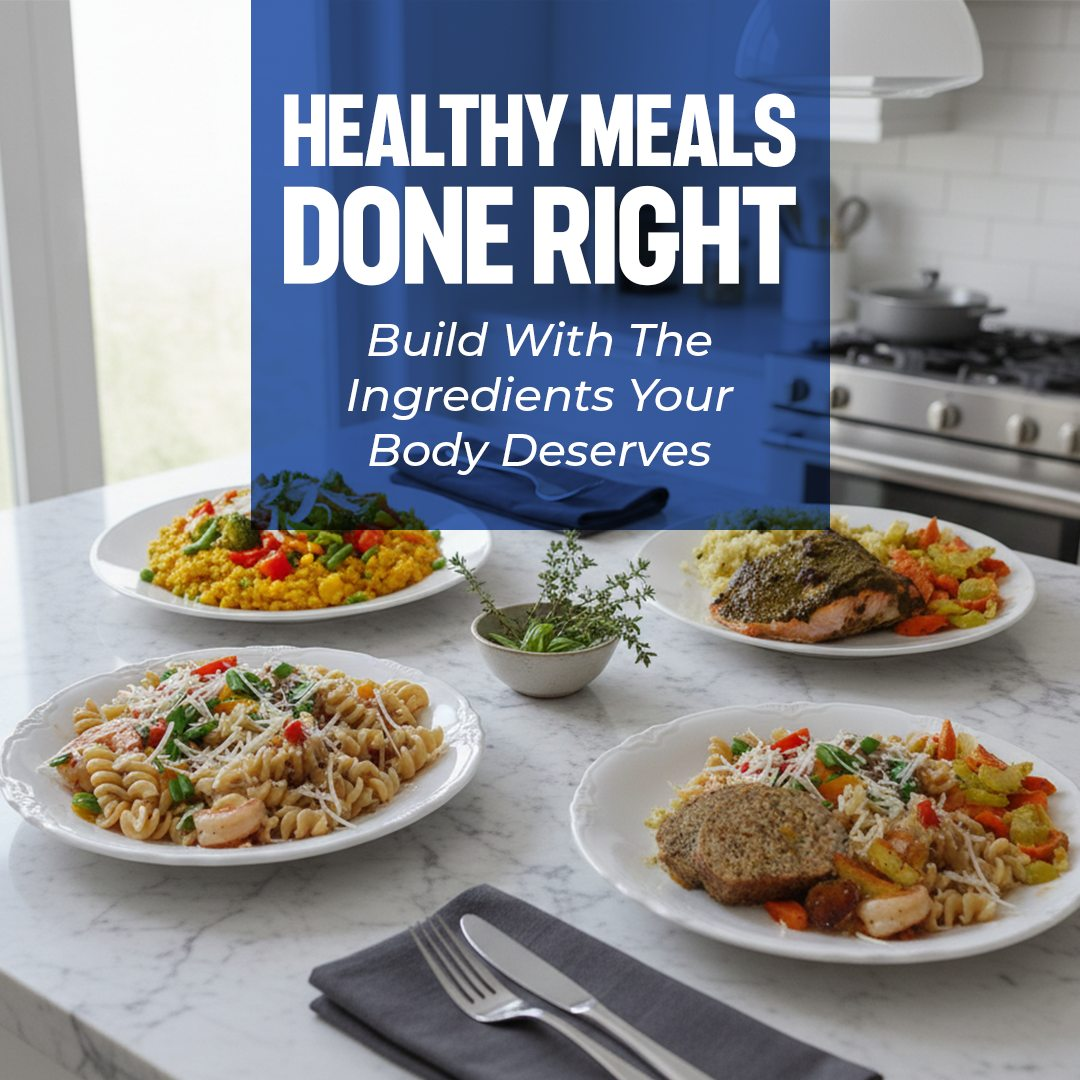
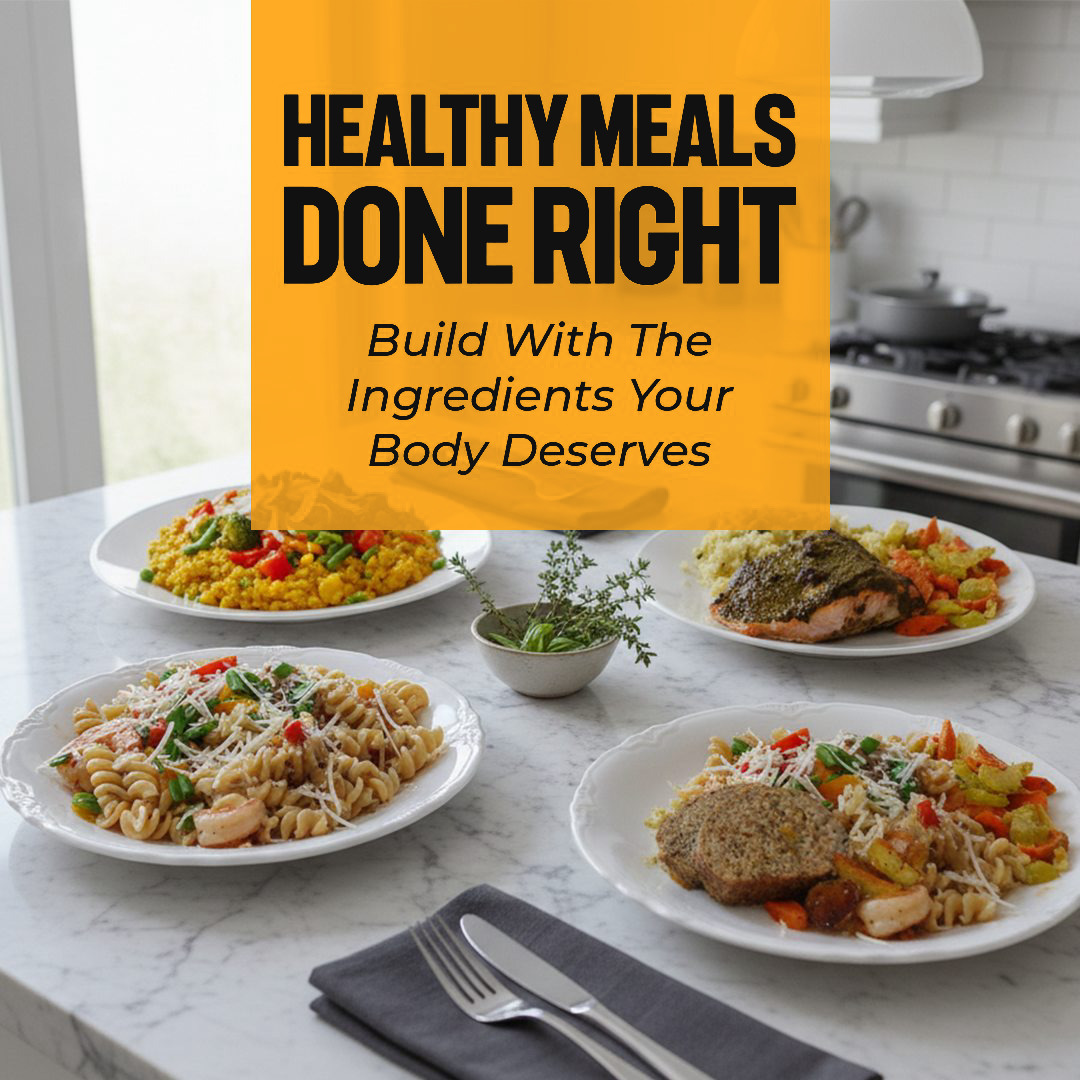
a

Changed region(s): [[0.2139, 0.0, 0.7944, 0.4889]]

diff --git a/assets/section-cm.css b/assets/section-cm.css
@@ -1049,7 +1049,7 @@ cm-arc-carousel {
   left: 14%;
   height: 7%;
   border-radius: 50%;
-  background: radial-gradient(ellipse, rgba(0, 0, 0, 0.55), transparent 70%);
+  background: radial-gradient(ellipse, rgba(0, 0, 0, 0.3), transparent 70%);
   pointer-events: none;
 }
 
@@ -1065,14 +1065,14 @@ cm-arc-carousel {
   width: 100%;
   height: 100%;
   object-fit: contain;
-  filter: drop-shadow(0 24px 22px rgba(0, 0, 0, 0.55));
+  filter: drop-shadow(0 24px 22px rgba(0, 0, 0, 0.3));
   pointer-events: none;
   -webkit-user-drag: none;
   transition: filter 0.6s ease;
 }
 
 .cm-arc__item.is-active .cm-arc__img {
-  filter: drop-shadow(0 30px 30px rgba(0, 0, 0, 0.6))
+  filter: drop-shadow(0 30px 30px rgba(0, 0, 0, 0.35))
     drop-shadow(0 0 36px color-mix(in srgb, var(--cm-arc-accent) 50%, transparent));
 }
 
@@ -1080,13 +1080,13 @@ cm-arc-carousel {
   object-fit: cover;
   border-radius: 1.6rem;
   filter: none;
-  box-shadow: 0 24px 40px rgba(0, 0, 0, 0.55);
+  box-shadow: 0 24px 40px rgba(0, 0, 0, 0.22);
   transition: box-shadow 0.6s ease;
 }
 
 .cm-arc--card .cm-arc__item.is-active .cm-arc__img {
   filter: none;
-  box-shadow: 0 30px 50px rgba(0, 0, 0, 0.6), 0 0 44px color-mix(in srgb, var(--cm-arc-accent) 55%, transparent);
+  box-shadow: 0 30px 50px rgba(0, 0, 0, 0.28), 0 0 44px color-mix(in srgb, var(--cm-arc-accent) 55%, transparent);
 }
 
 .cm-arc__placeholder {
@@ -1117,7 +1117,7 @@ cm-arc-carousel {
   color: color-mix(in srgb, var(--cm-arc-text) 80%, transparent);
   background: transparent;
   cursor: pointer;
-  filter: drop-shadow(0 2px 6px rgba(0, 0, 0, 0.6));
+  filter: drop-shadow(0 2px 6px color-mix(in srgb, var(--cm-arc-bg-2) 60%, transparent));
   transform: translateY(-50%);
   transition: color 0.25s ease, transform 0.3s cubic-bezier(0.2, 0.8, 0.2, 1);
 }
@@ -1166,7 +1166,7 @@ cm-arc-carousel {
   letter-spacing: 0.01em;
   text-transform: uppercase;
   color: var(--cm-arc-text);
-  text-shadow: 0 10px 30px rgba(0, 0, 0, 0.55);
+  text-shadow: 0 10px 30px color-mix(in srgb, var(--cm-arc-bg-2) 55%, transparent);
 }
 
 .cm .cm-arc__subtitle {
